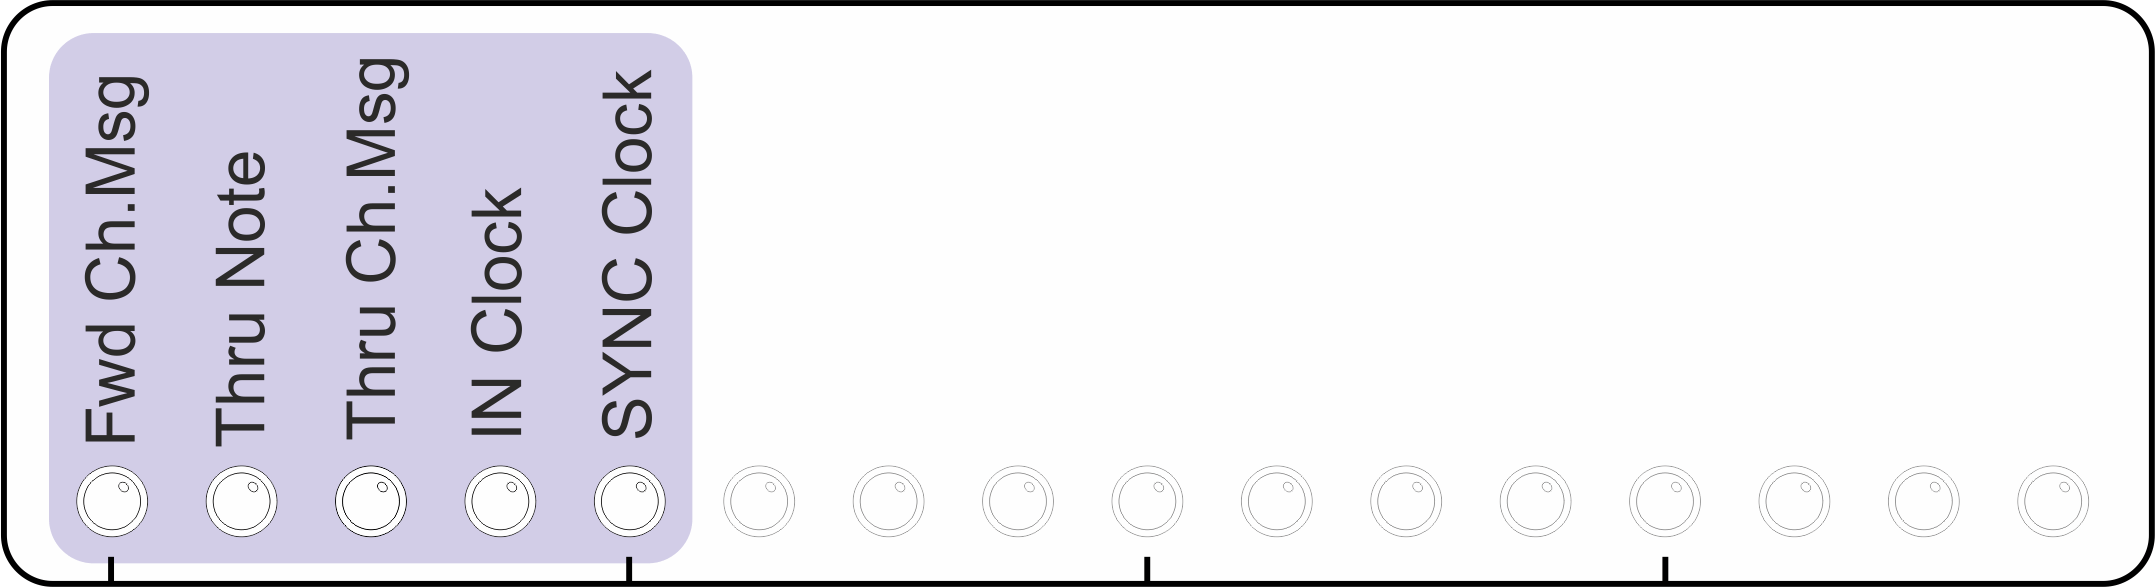
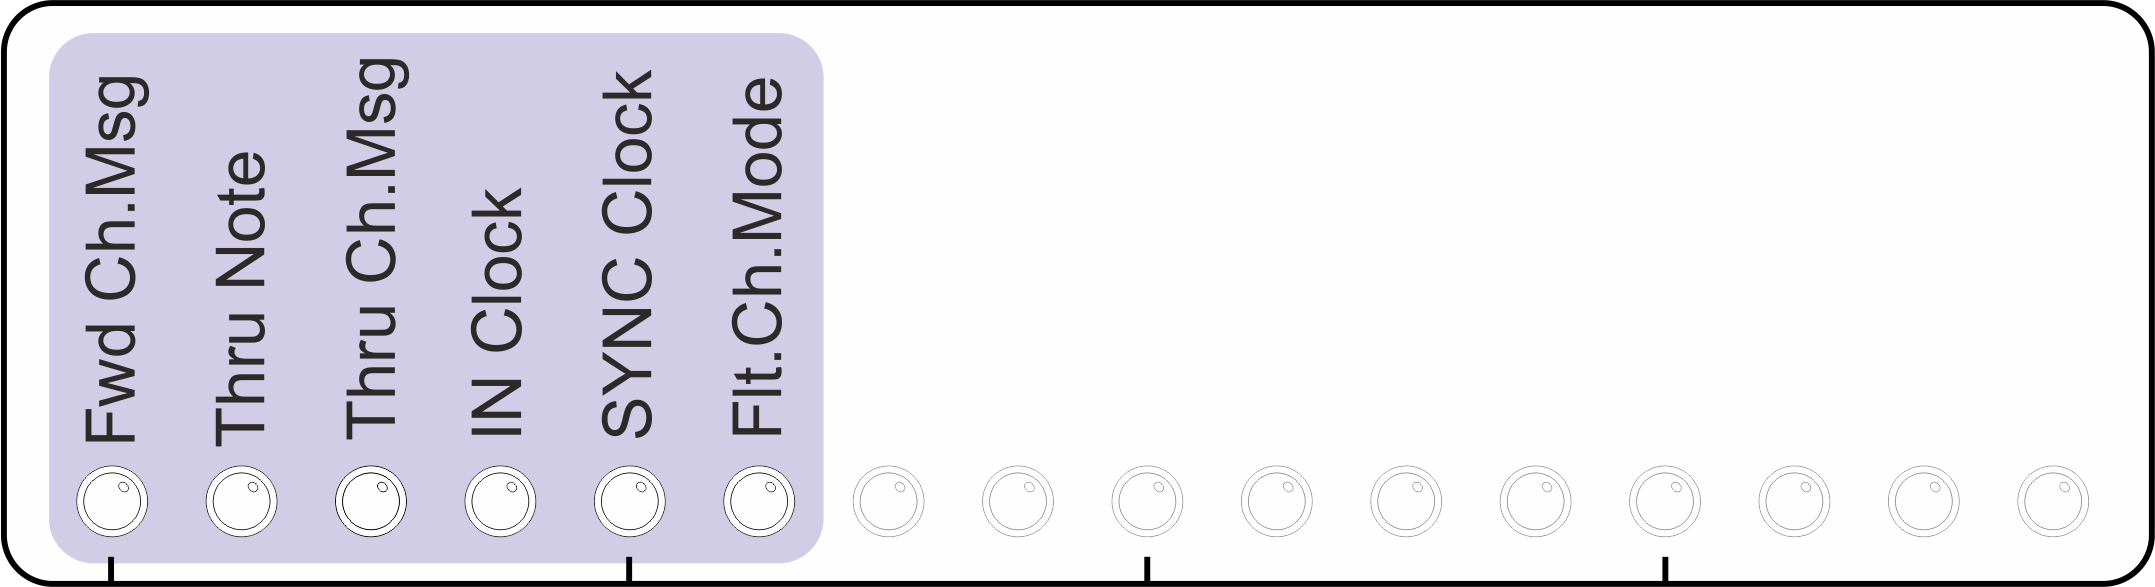
ch mode filter

Changed region(s): [[0.3109, 0.0307, 0.4042, 0.9813]]

diff --git a/products/arpie/manual.md b/products/arpie/manual.md
@@ -466,6 +466,8 @@ These options give you control over how ARPIE internally routes MIDI information
 
 - **SYNC Clock** - determines whether ARPIE will listen for external MIDI clock ticks on the AUX MIDI SYNC port. Source must also be set to external for these to be used.
 
+- **Flt.Ch.Mode** - When ON, ARPIE will remove MIDI "Channel Mode Messages" (CC numbers 120 thru 127) from the data thru'd from input to output. Some controllers might send unwanted channel mode messages such as "all notes off" when releasing keys. ARPIE can filter these out if desired.
+
 #CHAN
 <a name="chan">
 
